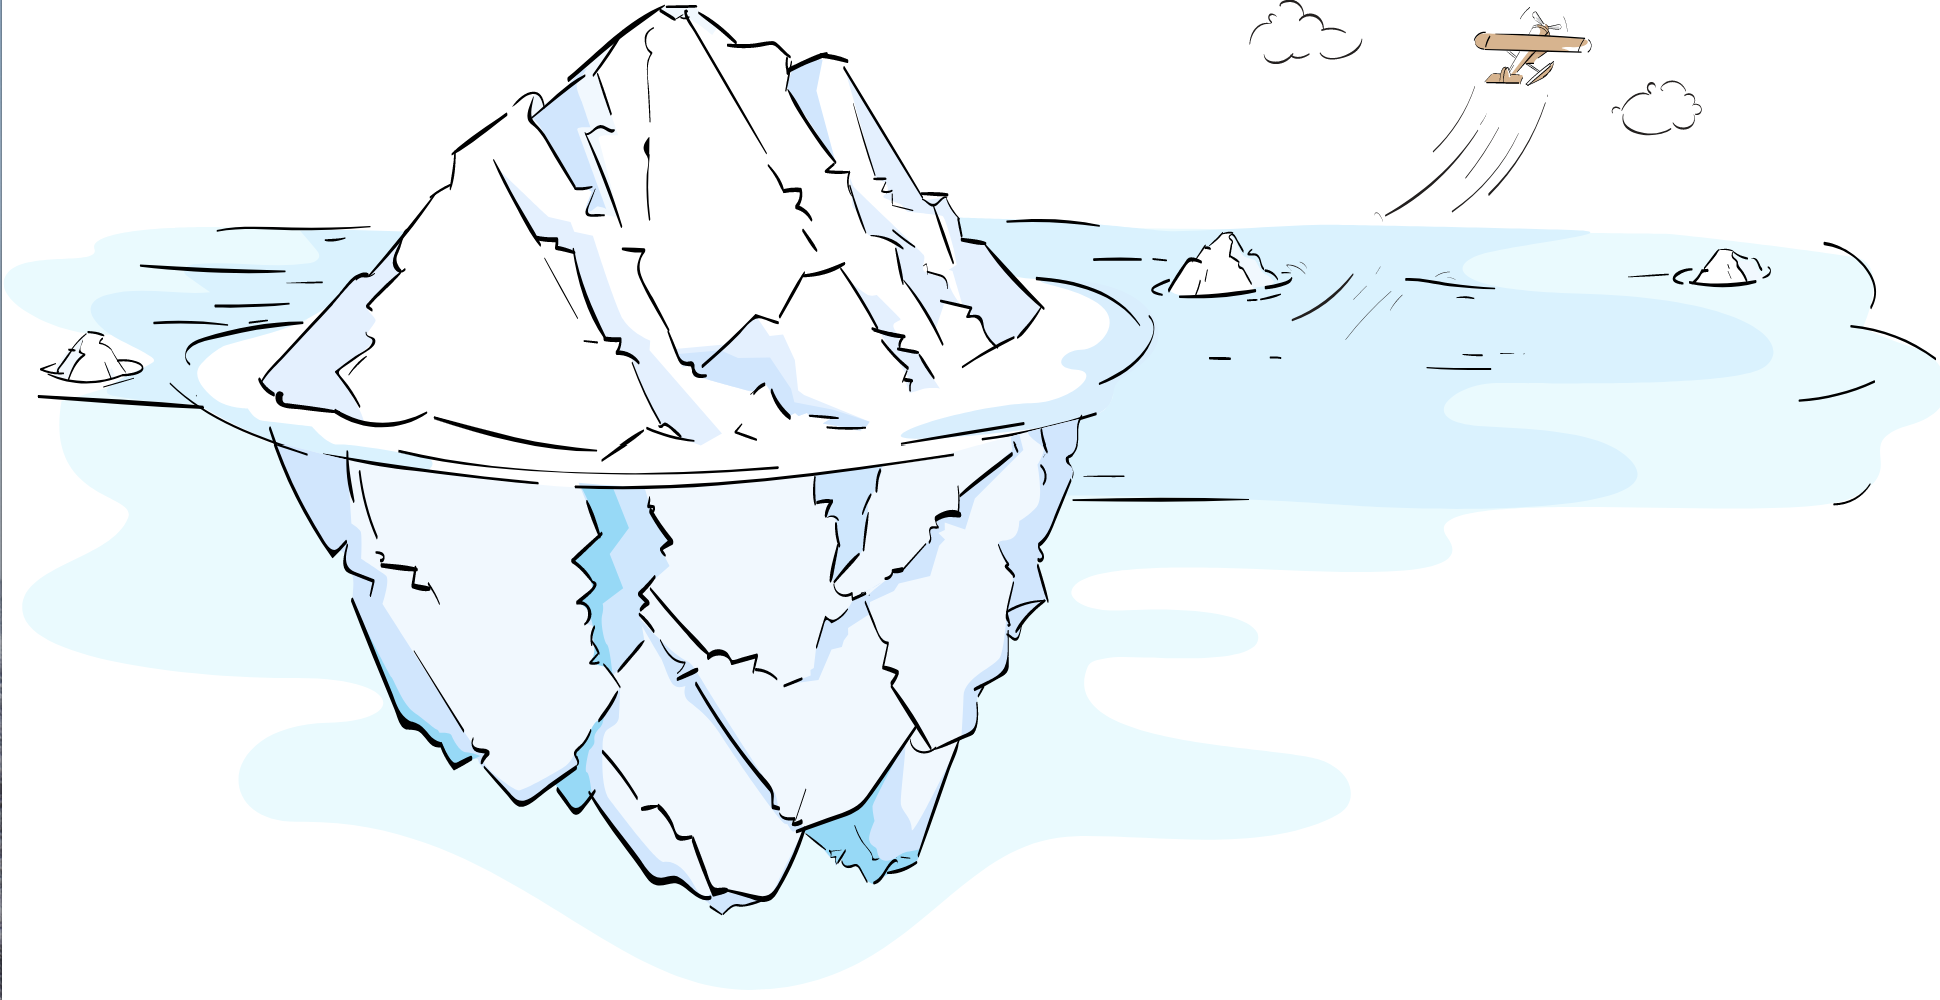
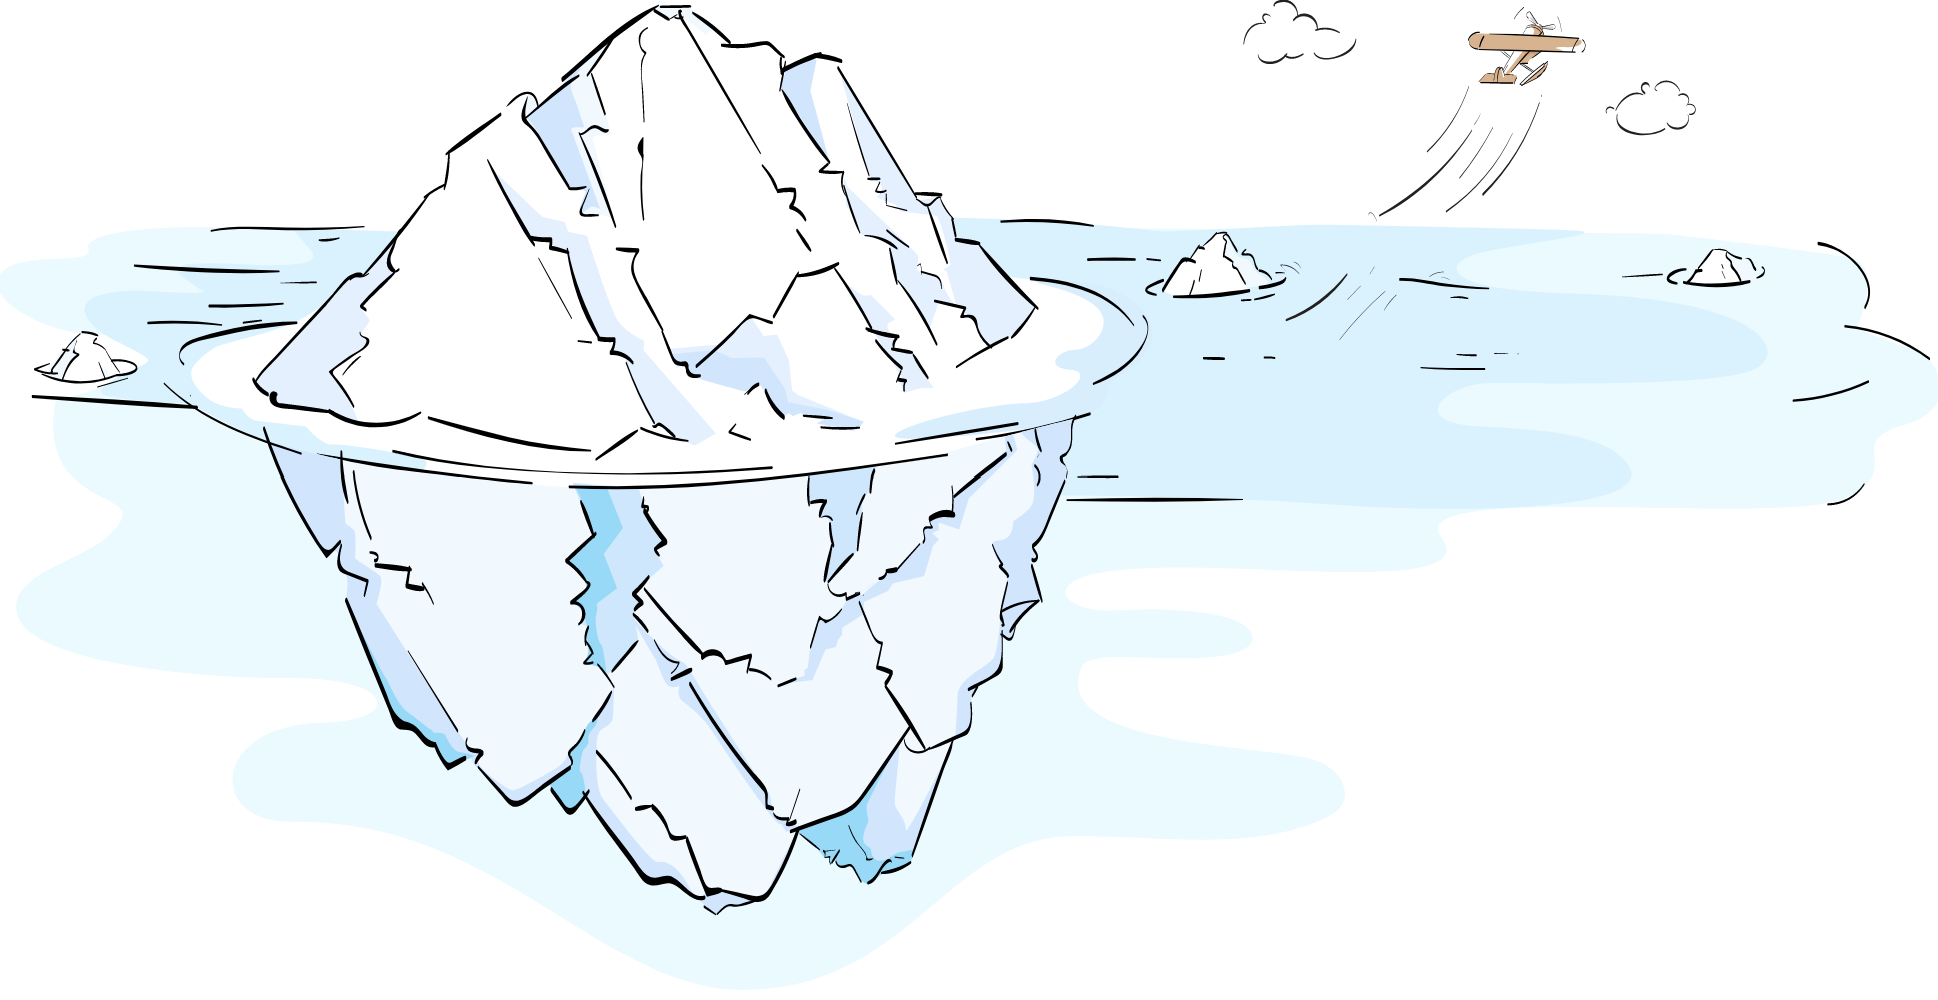
added iceberg and payment imgs

diff --git a/index.html b/index.html
@@ -19,7 +19,7 @@
 <body>
   <section class="banner blue accent-2 white-text center">
     <div class="container">
-      <span>Download our comprehensive guide on 'Mobile Payments-ready Cloud Software'</span>
+      <span>Download our comprehensive guide on 'Hosting your Payments on the  Cloud Software'</span>
     </div>
   </section>
   <header class="main-header">
@@ -59,13 +59,13 @@
               <div class="divider"></div>
             </li>
             <li>
-              <a href="#" class="btn orange accent-4">Login</a>
+              <a href="#" class="btn orange accent-4" style="text-transform: lowercase;">Login</a>
             </li>
           </ul>
         </div>
       </div>
     </nav>
-    <!-- Showcase -->
+                                <!-- Showcase -->
     <div class="showcase container">
       <div class="row">
         <div class="col s12 m10 offset-m1 center">
@@ -84,6 +84,57 @@
       </div>
     </div>
   </header>
+
+                          <!-- payment img -->
+<section class="section section-payments center">
+  <div class="container">
+    <div class="row">
+      <div class="col s12">
+
+      </div>
+    </div>
+  </div>
+</section>
+                           <!-- iceberg img -->
+<section class="section section-iceberg center valign-wrapper">
+  <div class="container">
+    <div class="row">
+      <div class="col s12">
+        <div class="iceberg-growth">
+          <h5 class="left-align">Catalyze Subscription Growth</h5>
+          <div class="iceberg-text left-align" >
+            Lorem ipsum dolor sit amet, consectetur adipisicing elit. Dolore odit, quia qui praesentium ab natus, harum tenetur nisi dolorum eum voluptates quo, corporis suscipit animi provident eius fugiat facere in!
+          </div>
+          <a href="#" class="btn blue accent-2" style="font-size: bold">Explore Subscription</a>
+        </div>
+      </div>
+    </div>
+  </div>
+</section>
+                           <!-- stripe img -->
+<section class="section-stripe scrollspy">
+  <div class="container">
+    <div class="row">
+      <div class="col s12 m10 offset-m1">
+        <div class="card-panel hoverable">
+          <a href="#" class="stripe-logo">
+            <i class="fab fa-stripe fa-5x"></i>
+          </a>
+          <div class="stripe-box">
+            <div class="stripe-text left-align" >
+              Lorem ipsum dolor sit amet, consectetur adipisicing elit. Dolore odit, quia qui praesentium ab natus, harum tenetur nisi dolorum eum voluptates!
+            </div>
+            <a href="#" class="stripe-do-text left-align">
+              Do more with Stripe
+                <i class="fas fa-arrow-right"></i>
+            </a>
+          </div>
+        </div>
+      </div>
+    </div>
+  </div>
+</section>
+
 
   <!--Import jQuery before materialize.js-->
   <script type="text/javascript" src="https://code.jquery.com/jquery-3.2.1.min.js"></script>

diff --git a/css/main.css b/css/main.css
@@ -5,6 +5,8 @@
   background-position: center;
   color: black;
 }
+.main-header .orange.accent-4 {
+}
 .main-header .showcase {
   padding-top: 100px;
 }
@@ -38,4 +40,54 @@ p{
   font-weight: 300;
   font-size: 16px;
   line-height: 22px;
+}
+.section-payments{
+  background: url(../img/paycomp.png);
+  background-size: 1000px;
+  background-repeat: no-repeat;
+  background-position: center;
+  margin-bottom: 60px;
+
+}
+.section-iceberg{
+  background: url(../img/iceberg.png);
+  background-size: 1000px;
+  background-repeat: no-repeat;
+  background-position: center;
+  min-height: 600px;
+  position: relative;
+}
+.section-iceberg .iceberg-text{
+  margin-top: 10px;
+  margin-bottom: 10px;
+}
+.section-iceberg .iceberg-growth{
+  position: relative;
+  max-width: 420px;
+  padding-top: 290px;
+  padding-bottom: 0;
+  line-height: 28px;
+  margin-left: auto;
+}
+.section-stripe{
+  padding: 40px 60px;
+  position: relative;
+}
+.section-stripe .stripe-logo {
+  display: inline-block;
+  margin-right: 60px;
+  margin-left: 40px;
+
+}
+.section-stripe .stripe-box{
+  font-size: 17px;
+  display: inline-block;
+  max-width: 550px;
+  margin-left: 20px;
+  line-height: 28px;
+
+}
+.section-stripe .stripe-do-text {
+  font-size: 13px;
+
 }
